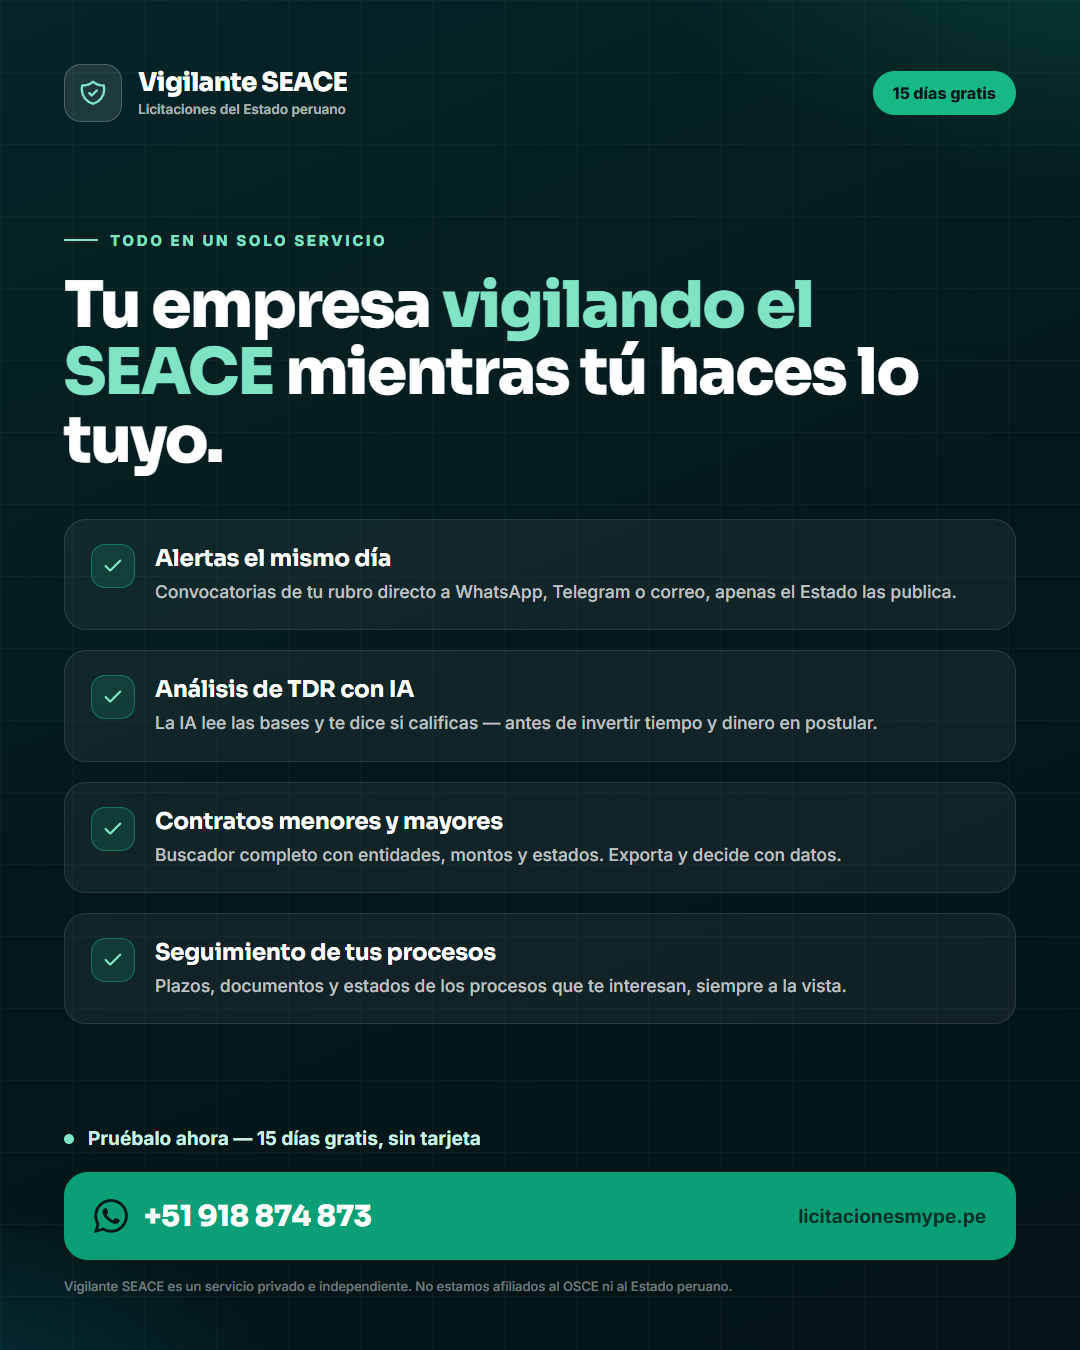
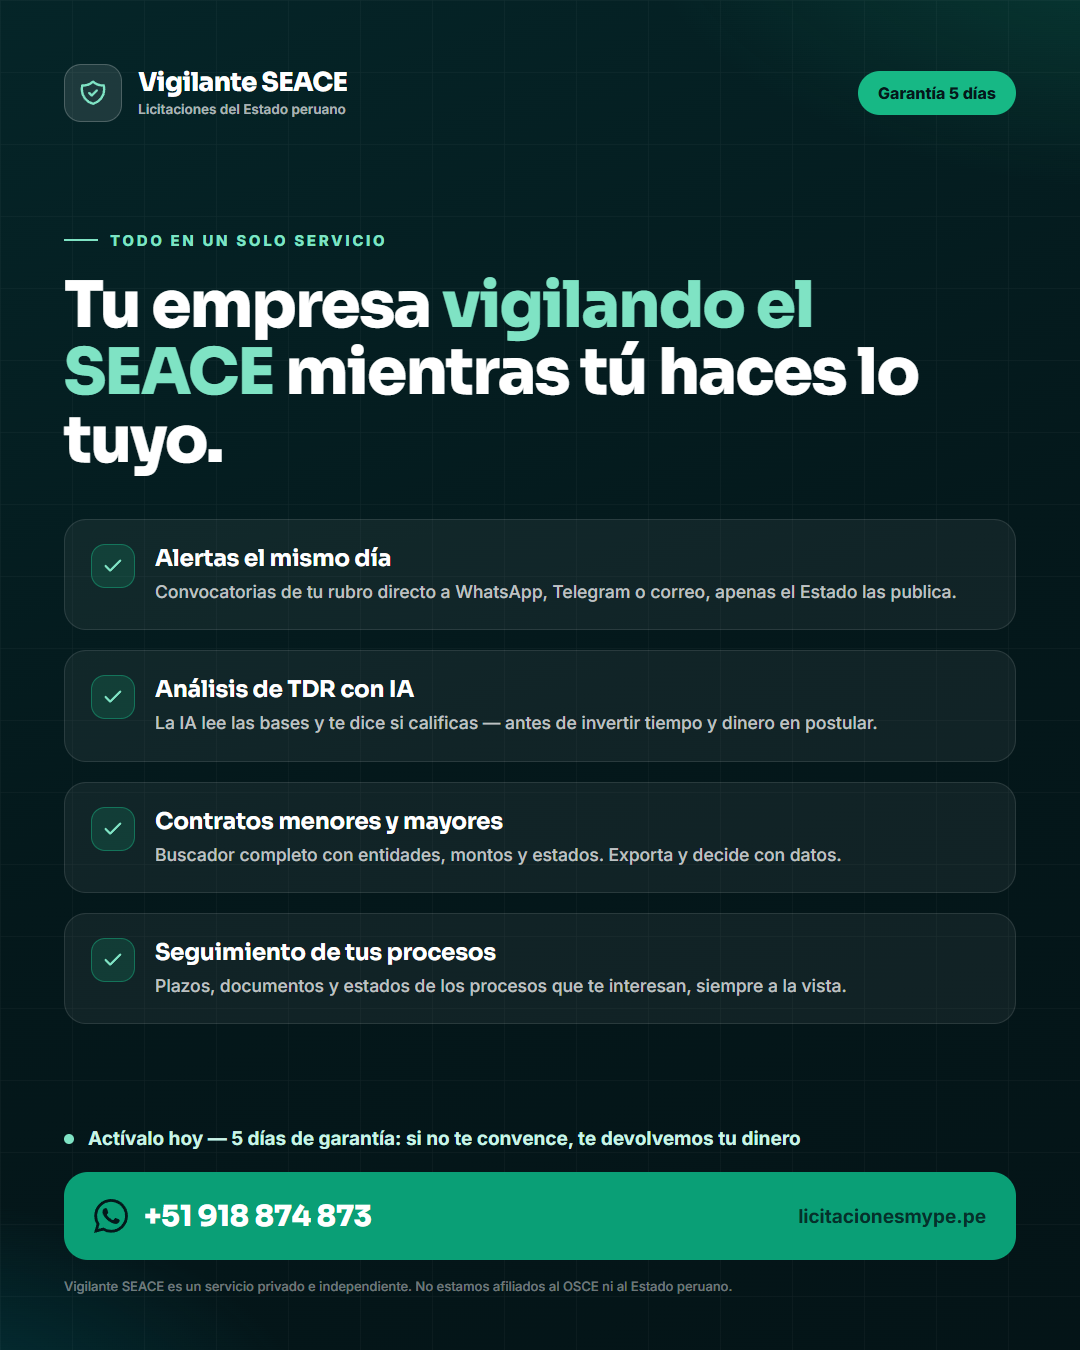
feat(oferta): reemplazar prueba 15 dias por 5 dias de garantia (flyer, plantillas, landings, emails, manual)

Changed region(s): [[0.0917, 0.84, 0.7333, 0.8711], [0.7944, 0.0311, 0.9167, 0.0933]]

diff --git a/scripts/ad-creatives/wsp-info.html b/scripts/ad-creatives/wsp-info.html
@@ -56,7 +56,7 @@
         <div class="brand-sub">Licitaciones del Estado peruano</div>
       </div>
     </div>
-    <div class="badge">15 días gratis</div>
+    <div class="badge">Garantía 5 días</div>
   </div>
 
   <div>
@@ -96,7 +96,7 @@
   </div>
 
   <div class="foot">
-    <div class="trial"><div class="dot"></div><span>Pruébalo ahora — 15 días gratis, sin tarjeta</span></div>
+    <div class="trial"><div class="dot"></div><span>Actívalo hoy — 5 días de garantía: si no te convence, te devolvemos tu dinero</span></div>
     <div class="cta">
       <div class="left">
         <svg width="34" height="34" viewBox="0 0 24 24" fill="#04181b"><path d="M17.472 14.382c-.297-.149-1.758-.867-2.03-.967-.273-.099-.471-.148-.67.15-.197.297-.767.966-.94 1.164-.173.199-.347.223-.644.075-.297-.15-1.255-.463-2.39-1.475-.883-.788-1.48-1.761-1.653-2.059-.173-.297-.018-.458.13-.606.134-.133.297-.347.446-.52.149-.174.198-.298.297-.497.1-.198.05-.371-.025-.52-.075-.149-.669-1.612-.916-2.207-.242-.579-.487-.5-.669-.51-.173-.008-.371-.01-.57-.01-.198 0-.52.074-.792.372-.272.297-1.04 1.016-1.04 2.479 0 1.462 1.065 2.875 1.213 3.074.149.198 2.096 3.2 5.077 4.487.709.306 1.262.489 1.694.625.712.227 1.36.195 1.871.118.571-.085 1.758-.719 2.006-1.413.248-.694.248-1.289.173-1.413-.074-.124-.272-.198-.57-.347m-5.421 7.403h-.004a9.87 9.87 0 01-5.031-1.378l-.361-.214-3.741.982.998-3.648-.235-.374a9.86 9.86 0 01-1.51-5.26c.001-5.45 4.436-9.884 9.888-9.884 2.64 0 5.122 1.03 6.988 2.898a9.825 9.825 0 012.893 6.994c-.003 5.45-4.437 9.884-9.885 9.884m8.413-18.297A11.815 11.815 0 0012.05 0C5.495 0 .16 5.335.157 11.892c0 2.096.547 4.142 1.588 5.945L.057 24l6.305-1.654a11.882 11.882 0 005.683 1.448h.005c6.554 0 11.89-5.335 11.893-11.893a11.821 11.821 0 00-3.48-8.413z"/></svg>

diff --git a/resources/views/manual.blade.php b/resources/views/manual.blade.php
@@ -645,7 +645,7 @@
                             ['¿Cómo configuro las notificaciones Telegram?', 'Suscríbete Premium → Perfil → Agregar suscripción Telegram → Ingresa Chat ID (del bot @userinfobot) → Agrega palabras clave → ¡Activa!'],
                             ['¿Qué es el análisis de TDR con IA?', 'Nuestra IA lee los TDR completos y extrae: <strong>Requisitos de Calificación</strong>, <strong>Reglas de Ejecución</strong>, <strong>Penalidades</strong> y <strong>Monto Referencial</strong>. Ahorra horas de lectura.'],
                             ['¿Cuántas palabras clave puedo tener?', 'Hasta <strong>20 palabras clave</strong> por suscripción. Puedes crear múltiples suscripciones si necesitas más.'],
-                            ['¿Puedo probar antes de pagar?', '<strong>¡Sí!</strong> <strong>15 días de prueba</strong> con todas las funciones Premium. El buscador y descarga de TDR son siempre gratuitos.'],
+                            ['¿Puedo probar antes de pagar?', 'Sí: agenda una <strong>demo de 20 minutos</strong> y te mostramos el sistema con tus propios datos. Al activar tienes <strong>5 días de garantía</strong>: si no te convence, te devolvemos tu dinero. El buscador y la descarga de TDR son siempre gratuitos.'],
                             ['¿Qué métodos de pago aceptan?', 'Tarjeta de crédito y débito (Visa, Mastercard, Amex) vía MercadoPago. 100% seguro, sin redirecciones.'],
                             ['¿Cómo funciona el seguimiento?', '"📌 Hacer Seguimiento" en cualquier proceso → Se agrega al calendario con colores: <strong>rojo</strong> (≤2 días), <strong>naranja</strong> (≤5), <strong>amarillo</strong> (≤7), <strong>verde</strong> (>7).'],
                             ['¿Puedo cancelar mi suscripción?', '<strong>Sí.</strong> Cancela en cualquier momento. Disfrutas Premium hasta que termine el periodo contratado. Sin cargos ocultos.'],

diff --git a/resources/views/admin/respuesta-leads.blade.php b/resources/views/admin/respuesta-leads.blade.php
@@ -175,7 +175,7 @@ Te comparto cómo funciona:
 • La IA analiza el TDR y te dice si calificas antes de postular.
 • Incluye buscador de contratos menores y mayores + seguimiento de procesos.
 
-Puedes probarlo 15 días gratis aquí: https://licitacionesmype.pe/register
+Actívalo hoy y tienes 5 días de garantía: si no te convence, te devolvemos tu dinero. Crea tu cuenta aquí: https://licitacionesmype.pe/register
 
 ¿Te muestro el sistema en una demo rápida de 20 minutos? ¿Qué día te queda bien?`,
         correoAsunto: 'Vigilante SEACE — así te avisamos de las licitaciones de tu rubro',
@@ -188,7 +188,7 @@ Gracias por tu interés en Vigilante SEACE. Te resumo cómo ayudamos a proveedor
 🔍 Contratos menores y mayores: buscador completo con entidades, montos y estados.
 📊 Seguimiento de tus procesos: plazos y documentos siempre a la vista.
 
-Puedes probarlo 15 días gratis, sin tarjeta: https://licitacionesmype.pe/register
+Actívalo hoy y tienes 5 días de garantía: si no te convence, te devolvemos tu dinero: https://licitacionesmype.pe/register
 
 ¿Prefieres una demo de 20 minutos? Responde a este correo o escríbenos al WhatsApp +51 918 874 873.
 

diff --git a/resources/views/emails/respuesta-lead.blade.php b/resources/views/emails/respuesta-lead.blade.php
@@ -63,11 +63,11 @@
                             </table>
 
                             <p style="margin:24px 0 8px; font-size:14px; color:#4B5563; line-height:1.7;">
-                                Puedes probarlo <strong>15 días gratis, sin tarjeta</strong>:
+                                Actívalo hoy y tienes <strong>5 días de garantía</strong>: si no te convence, te devolvemos tu dinero.
                             </p>
                             <p style="margin:0 0 24px;">
                                 <a href="{{ url('/register') }}" style="display:inline-block; background:#025964; color:#ffffff; text-decoration:none; font-weight:700; font-size:14px; padding:14px 32px; border-radius:999px;">
-                                    Crear mi cuenta gratis
+                                    Crear mi cuenta y activar
                                 </a>
                             </p>
 

diff --git a/resources/views/alertas-licitaciones.blade.php b/resources/views/alertas-licitaciones.blade.php
@@ -406,7 +406,7 @@
                 <div class="flex flex-wrap items-center justify-center gap-x-5 gap-y-2 text-[12px] text-white/75 mb-5">
                     <span>✔ 200+ proveedores registrados</span>
                     <span>✔ Alertas el mismo día</span>
-                    <span>✔ 15 días de prueba gratis</span>
+                    <span>✔ Garantía de 5 días</span>
                 </div>
 
                 @if (session('ok'))

diff --git a/resources/views/licitaciones-vigentes.blade.php b/resources/views/licitaciones-vigentes.blade.php
@@ -347,7 +347,7 @@
             <div class="flex flex-wrap items-center justify-center gap-x-5 gap-y-2 text-[12px] mb-5" style="color:var(--muted)">
                 <span>✔ 200+ proveedores registrados</span>
                 <span>✔ Alertas el mismo día</span>
-                <span>✔ 15 días de prueba gratis</span>
+                <span>✔ Garantía de 5 días</span>
             </div>
 
             @if (session('ok'))

diff --git a/resources/views/software-licitaciones.blade.php b/resources/views/software-licitaciones.blade.php
@@ -569,7 +569,7 @@
             <div class="flex flex-wrap items-center justify-center gap-x-5 gap-y-2 text-[12px] mb-5" style="color:var(--muted)">
                 <span>✔ 200+ proveedores registrados</span>
                 <span>✔ Alertas el mismo día</span>
-                <span>✔ 15 días de prueba gratis</span>
+                <span>✔ Garantía de 5 días</span>
             </div>
 
             @if (session('ok'))

diff --git a/resources/views/landing.blade.php b/resources/views/landing.blade.php
@@ -199,7 +199,7 @@
             </a>
             @endguest
         </div>
-        <p class="text-white/70 text-sm font-medium mt-6">Obtén 15 días de prueba Premium al registrarte</p>
+        <p class="text-white/70 text-sm font-medium mt-6">Regístrate gratis — y al activar, 5 días de garantía de devolución</p>
     </div>
 </section>
 

diff --git a/documents/02-marketing-adquisicion/RESPUESTA_LEADS.md b/documents/02-marketing-adquisicion/RESPUESTA_LEADS.md
@@ -11,7 +11,7 @@
 2. Responder en **≤ 2 horas hábiles** (L–V 8:00–18:00):
    - **Por WhatsApp** (rápido, adjuntando el flyer) si dejó teléfono o si llegó por campaña.
    - **Por correo** con la plantilla si solo dejó email.
-3. Objetivo del primer contacto: **agendar demo de 20 min** o lograr el **registro con prueba de 15 días**.
+3. Objetivo del primer contacto: **agendar demo de 20 min** y cerrar **activación directa con Yape** (5 días de garantía).
 
 ---
 
@@ -42,7 +42,7 @@ Gracias por tu interés en Vigilante SEACE. Te resumo cómo ayudamos a proveedor
 🔍 Contratos menores y mayores: buscador completo con entidades, montos y estados.
 📊 Seguimiento de tus procesos: plazos y documentos siempre a la vista.
 
-Puedes probarlo 15 días gratis, sin tarjeta: https://licitacionesmype.pe/register
+Actívalo hoy y tienes 5 días de garantía: si no te convence, te devolvemos tu dinero: https://licitacionesmype.pe/register
 
 ¿Prefieres una demo de 20 minutos? Responde a este correo o escríbenos al WhatsApp +51 918 874 873.
 
@@ -69,7 +69,7 @@ Te comparto cómo funciona:
 • La IA analiza el TDR y te dice si calificas antes de postular.
 • Incluye buscador de contratos menores y mayores + seguimiento de procesos.
 
-Puedes probarlo 15 días gratis aquí: https://licitacionesmype.pe/register
+Actívalo hoy y tienes 5 días de garantía: si no te convence, te devolvemos tu dinero. Crea tu cuenta aquí: https://licitacionesmype.pe/register
 
 ¿Te muestro el sistema en una demo rápida de 20 minutos? ¿Qué día te queda bien?
 ```
@@ -78,7 +78,7 @@ Puedes probarlo 15 días gratis aquí: https://licitacionesmype.pe/register
 
 | El lead pregunta… | Ajuste del mensaje |
 |---|---|
-| "¿Cuánto cuesta?" | Añadir: "Los planes van desde S/ 49 al mes; con la prueba de 15 días entras sin pagar nada y recién decides después." |
+| "¿Cuánto cuesta?" | Añadir: "Los planes van desde S/ 49 al mes, y al activar tienes 5 días de garantía: si no te convence, te devolvemos tu dinero." |
 | "¿Cómo me llegan las alertas?" | Añadir: "Eliges canal (WhatsApp, Telegram o correo) y las palabras clave de tu rubro en Configuración de Alertas." |
 | "¿Sirve para mi rubro/región?" | Añadir: "Sí — filtra por rubro y por departamento/provincia/distrito. Dime tu rubro y te muestro licitaciones de muestra." |
 
